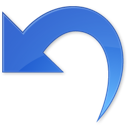
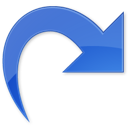
add redo action & undo action

diff --git a/MindMapGUI/mindmapgui.cpp b/MindMapGUI/mindmapgui.cpp
@@ -28,27 +28,27 @@ void MindMapGUI::setupMenus()
     this->setMenuBar(_menuBar);
     this->setWindowTitle(QApplication::translate("this", "MindMapGUI", 0));
 
-    _menuFile = new QMenu(QStringLiteral("menuFile"), _menuBar);
-    _menuFile->setTitle(QApplication::translate("this", "File", 0));
+    _menuFile = new QMenu(QStringLiteral("File"), _menuBar);
     _menuFile->addAction(_actionNew);
     _menuFile->addAction(_actionSave);
     _menuFile->addAction(_actionLoad);
     _menuFile->addAction(_actionExit);
 
-    _menuEdit = new QMenu(QStringLiteral("menuEdit"), _menuBar);
-    _menuEdit->setTitle(QApplication::translate("this", "Edit", 0));
+    _menuEdit = new QMenu(QStringLiteral("Edit"), _menuBar);
+    _menuEdit->addAction(_actionUndo);
+    _menuEdit->addAction(_actionRedo);
+    _menuEdit->addSeparator();
+    _menuEdit->addAction(_actionCut);
+    _menuEdit->addAction(_actionCopy);
+    _menuEdit->addAction(_actionPaste);
+    _menuEdit->addSeparator();
     _menuEdit->addAction(_actionEdit);
     _menuEdit->addAction(_actionDelete);
     _menuEdit->addAction(_actionInsertChild);
     _menuEdit->addAction(_actionInsertSibling);
     _menuEdit->addAction(_actionInsertParent);
-    _menuEdit->addSeparator();
-    _menuEdit->addAction(_actionCut);
-    _menuEdit->addAction(_actionCopy);
-    _menuEdit->addAction(_actionPaste);
 
-    _menuHelp = new QMenu(QStringLiteral("menuHelp"), _menuBar);
-    _menuHelp->setTitle(QApplication::translate("this", "Help", 0));
+    _menuHelp = new QMenu(QStringLiteral("Help"), _menuBar);
     _menuHelp->addAction(_actionAbout);
 
     _menuBar->addAction(_menuFile->menuAction());
@@ -59,36 +59,25 @@ void MindMapGUI::setupMenus()
 void MindMapGUI::setupActions()
 {
     // File
-    _actionNew = new QAction(QIcon("resource/new_icon.png"), QStringLiteral("actionNew"), this);
-    _actionSave = new QAction(QIcon("resource/save_icon.png"), QStringLiteral("actionSave"), this);
-    _actionLoad = new QAction(QIcon("resource/open_icon.png"), QStringLiteral("actionLoad"), this);
-    _actionExit = new QAction(QIcon("resource/exit_icon.png"), QStringLiteral("actionExit"), this);
-    _actionNew->setText(QApplication::translate("this", "New", 0));
-    _actionSave->setText(QApplication::translate("this", "Save", 0));
-    _actionLoad->setText(QApplication::translate("this", "Load", 0));
-    _actionExit->setText(QApplication::translate("this", "Exit", 0));
+    _actionNew = new QAction(QIcon("resource/new_icon.png"), QStringLiteral("New"), this);
+    _actionSave = new QAction(QIcon("resource/save_icon.png"), QStringLiteral("Save"), this);
+    _actionLoad = new QAction(QIcon("resource/open_icon.png"), QStringLiteral("Load"), this);
+    _actionExit = new QAction(QIcon("resource/exit_icon.png"), QStringLiteral("Exit"), this);
 
     // Edit
-    _actionEdit = new QAction(QIcon("resource/edit_icon.png"), QStringLiteral("actionEdit"), this);
-    _actionDelete = new QAction(QIcon("resource/delete_icon.png"), QStringLiteral("actionDelete"), this);
-    _actionInsertChild = new QAction(QIcon("resource/insert_child_icon.png"), QStringLiteral("actionInsert_A_Child"), this);
-    _actionInsertSibling = new QAction(QIcon("resource/insert_sibling_icon.png"), QStringLiteral("actionInsert_a_sibling"), this);
-    _actionInsertParent = new QAction(QIcon("resource/insert_parent_icon.png"), QStringLiteral("actionInsert_a_parent"), this);
-    _actionCut = new QAction(QIcon("resource/cut.png"), QStringLiteral("actionCut"), this);
-    _actionCopy = new QAction(QIcon("resource/copy.png"), QStringLiteral("actionCopy"), this);
-    _actionPaste = new QAction(QIcon("resource/paste.png"), QStringLiteral("actionPaste"), this);
-    _actionEdit->setText(QApplication::translate("this", "Edit", 0));
-    _actionDelete->setText(QApplication::translate("this", "Delete", 0));
-    _actionInsertChild->setText(QApplication::translate("this", "Insert a child", 0));
-    _actionInsertSibling->setText(QApplication::translate("this", "Insert a sibling", 0));
-    _actionInsertParent->setText(QApplication::translate("this", "Insert a parent", 0));
-    _actionCut->setText(QApplication::translate("this", "Cut", 0));
-    _actionCopy->setText(QApplication::translate("this", "Copy", 0));
-    _actionPaste->setText(QApplication::translate("this", "Paste", 0));
+    _actionEdit = new QAction(QIcon("resource/edit_icon.png"), QStringLiteral("Edit"), this);
+    _actionDelete = new QAction(QIcon("resource/delete_icon.png"), QStringLiteral("Delete"), this);
+    _actionInsertChild = new QAction(QIcon("resource/insert_child_icon.png"), QStringLiteral("Insert a child"), this);
+    _actionInsertSibling = new QAction(QIcon("resource/insert_sibling_icon.png"), QStringLiteral("Insert a sibling"), this);
+    _actionInsertParent = new QAction(QIcon("resource/insert_parent_icon.png"), QStringLiteral("Insert a parent"), this);
+    _actionCut = new QAction(QIcon("resource/cut.png"), QStringLiteral("Cut"), this);
+    _actionCopy = new QAction(QIcon("resource/copy.png"), QStringLiteral("Copy"), this);
+    _actionPaste = new QAction(QIcon("resource/paste.png"), QStringLiteral("Paste"), this);
+    _actionRedo = new QAction(QIcon("resource/redo.png"), QStringLiteral("Redo"), this);
+    _actionUndo = new QAction(QIcon("resource/undo.png"), QStringLiteral("Undo"), this);
 
     // Help
-    _actionAbout = new QAction(QIcon("resource/about_icon.png"), QStringLiteral("actionAbort"), this);
-    _actionAbout->setText(QApplication::translate("this", "Abort", 0));
+    _actionAbout = new QAction(QIcon("resource/about_icon.png"), QStringLiteral("Abort"), this);
 }
 
 void MindMapGUI::setupToolBar()
@@ -100,6 +89,9 @@ void MindMapGUI::setupToolBar()
     _mainToolBar->addAction(_actionNew);
     _mainToolBar->addAction(_actionLoad);
     _mainToolBar->addAction(_actionSave);
+    _mainToolBar->addSeparator();
+    _mainToolBar->addAction(_actionUndo);
+    _mainToolBar->addAction(_actionRedo);
     _mainToolBar->addSeparator();
     _mainToolBar->addAction(_actionCut);
     _mainToolBar->addAction(_actionCopy);

diff --git a/MindMapGUI/mindmapgui.h b/MindMapGUI/mindmapgui.h
@@ -41,6 +41,8 @@ class MindMapGUI : public INotifyGraphics, public QMainWindow
         QAction* _actionCut;
         QAction* _actionCopy;
         QAction* _actionPaste;
+        QAction* _actionRedo;
+        QAction* _actionUndo;
         QWidget* _centralWidget;
         QMenuBar* _menuBar;
         QMenu* _menuFile;
